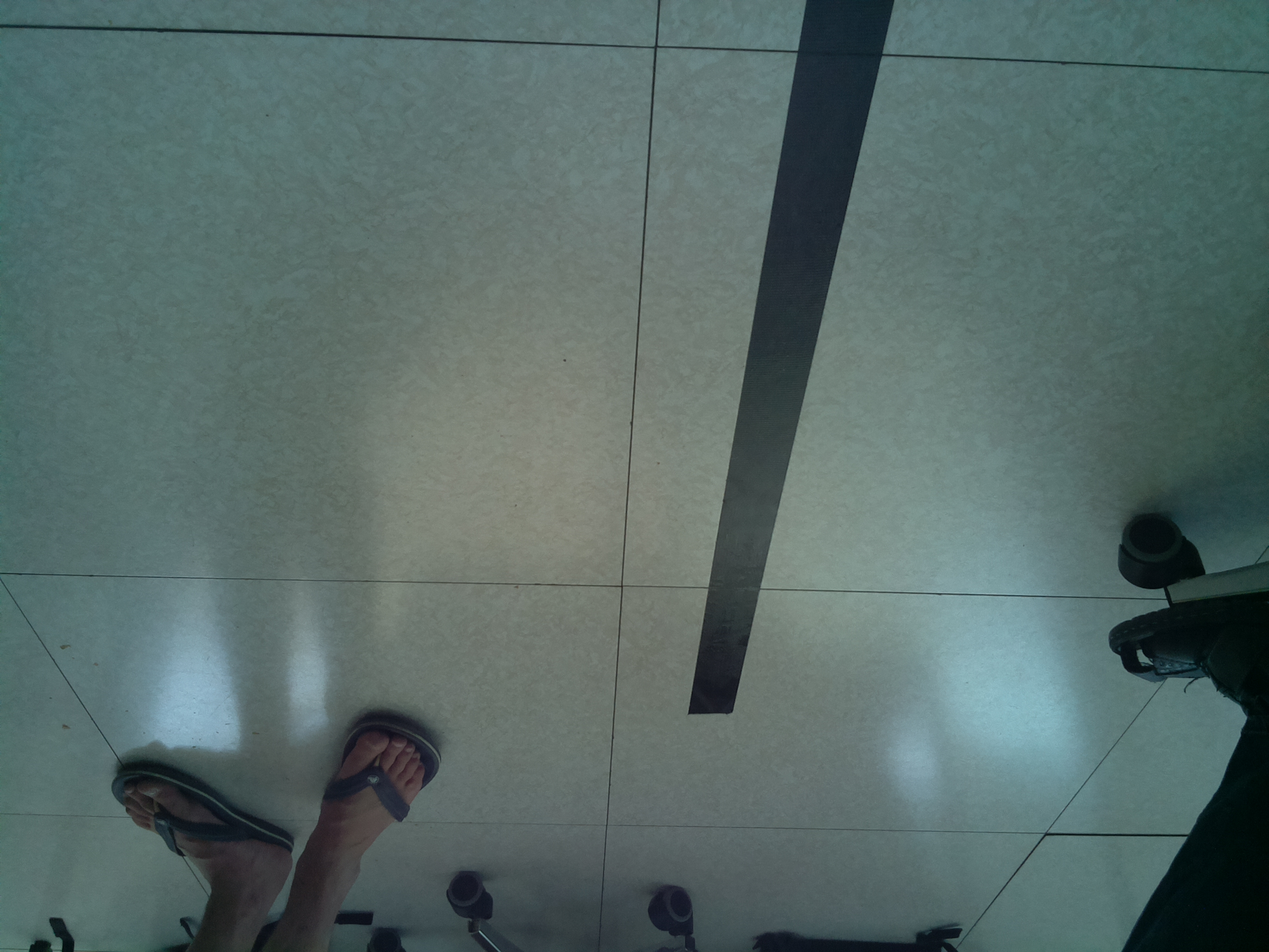
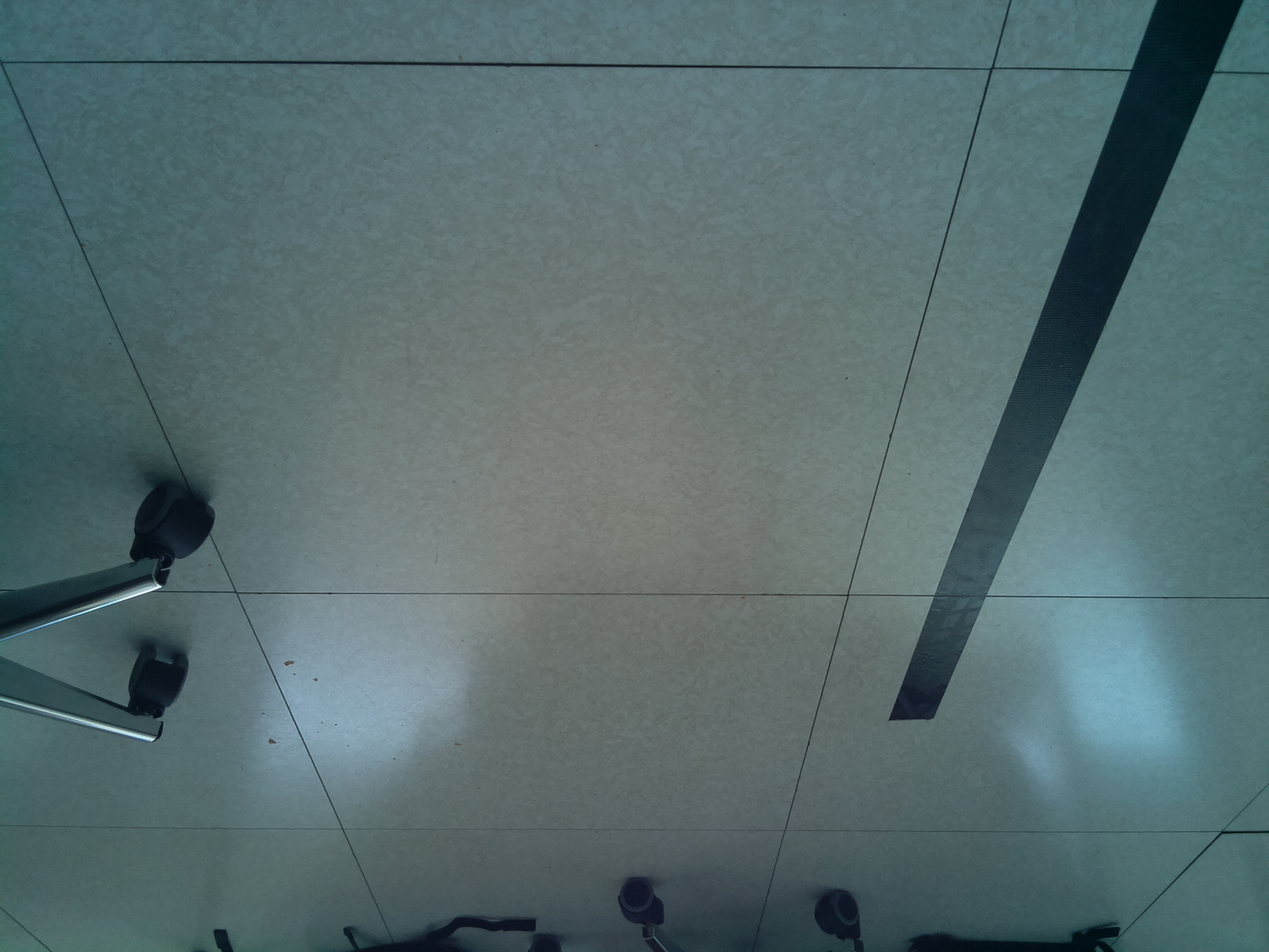
add threshold

diff --git a/main.py b/main.py
@@ -3,9 +3,11 @@ from picamera.array import PiRGBArray
 from picamera import PiCamera
 import time
 import cv2
+import numpy as np
 
 # initialize the camera and grab a reference to the raw camera capture
 camera = PiCamera()
+camera.resolution = (640, 480)
 rawCapture = PiRGBArray(camera)
 
 # allow the camera to warmup
@@ -13,6 +15,22 @@ time.sleep(0.1)
 
 # grab an image from the camera
 camera.capture(rawCapture, format='bgr')
-image = rawCapture.array
+img = rawCapture.array
 
-cv2.imwrite('neki.jpg', image)
+# transform
+w, h = 640, 480
+Mrot = cv2.getRotationMatrix2D((w / 2, h / 2), 180, 1.0)
+img = cv2.warpAffine(img, Mrot, (w, h))
+pts1 = np.float32([[178, 95], [522, 100], [32, 275], [511, 288]])
+pts2 = np.float32([[177, 95], [401, 98], [178, 318], [398, 316]])
+M = cv2.getPerspectiveTransform(pts1, pts2)
+img = cv2.warpPerspective(img, M, (w, h))
+
+# blur
+img = cv2.medianBlur(img, 5)
+
+# threshold
+img = cv2.adaptiveThreshold(img, 255, cv2.ADAPTIVE_THRESH_GAUSSIAN_C, \
+                            cv2.THRESH_BINARY, 11, 2)
+
+cv2.imwrite('neki.jpg', img)

diff --git a/test/test1.py b/test/test1.py
@@ -3,12 +3,6 @@
 import cv2
 import numpy as np
 
-
-def click_and_crop(event, x, y, flags, param):
-    if event == cv2.EVENT_LBUTTONDOWN:
-        print(x, y)
-
-
 w, h = 1000, 750
 
 origimg = cv2.imread('../sample.jpg')
@@ -23,9 +17,6 @@ pts2 = np.float32([[177, 95], [401, 98], [178, 318], [398, 316]])
 
 M = cv2.getPerspectiveTransform(pts1, pts2)
 dst = cv2.warpPerspective(img, M, (w, h))
-
-cv2.namedWindow("image")
-cv2.setMouseCallback("image", click_and_crop)
 
 cv2.imshow('image', dst)
 cv2.waitKey(0)
